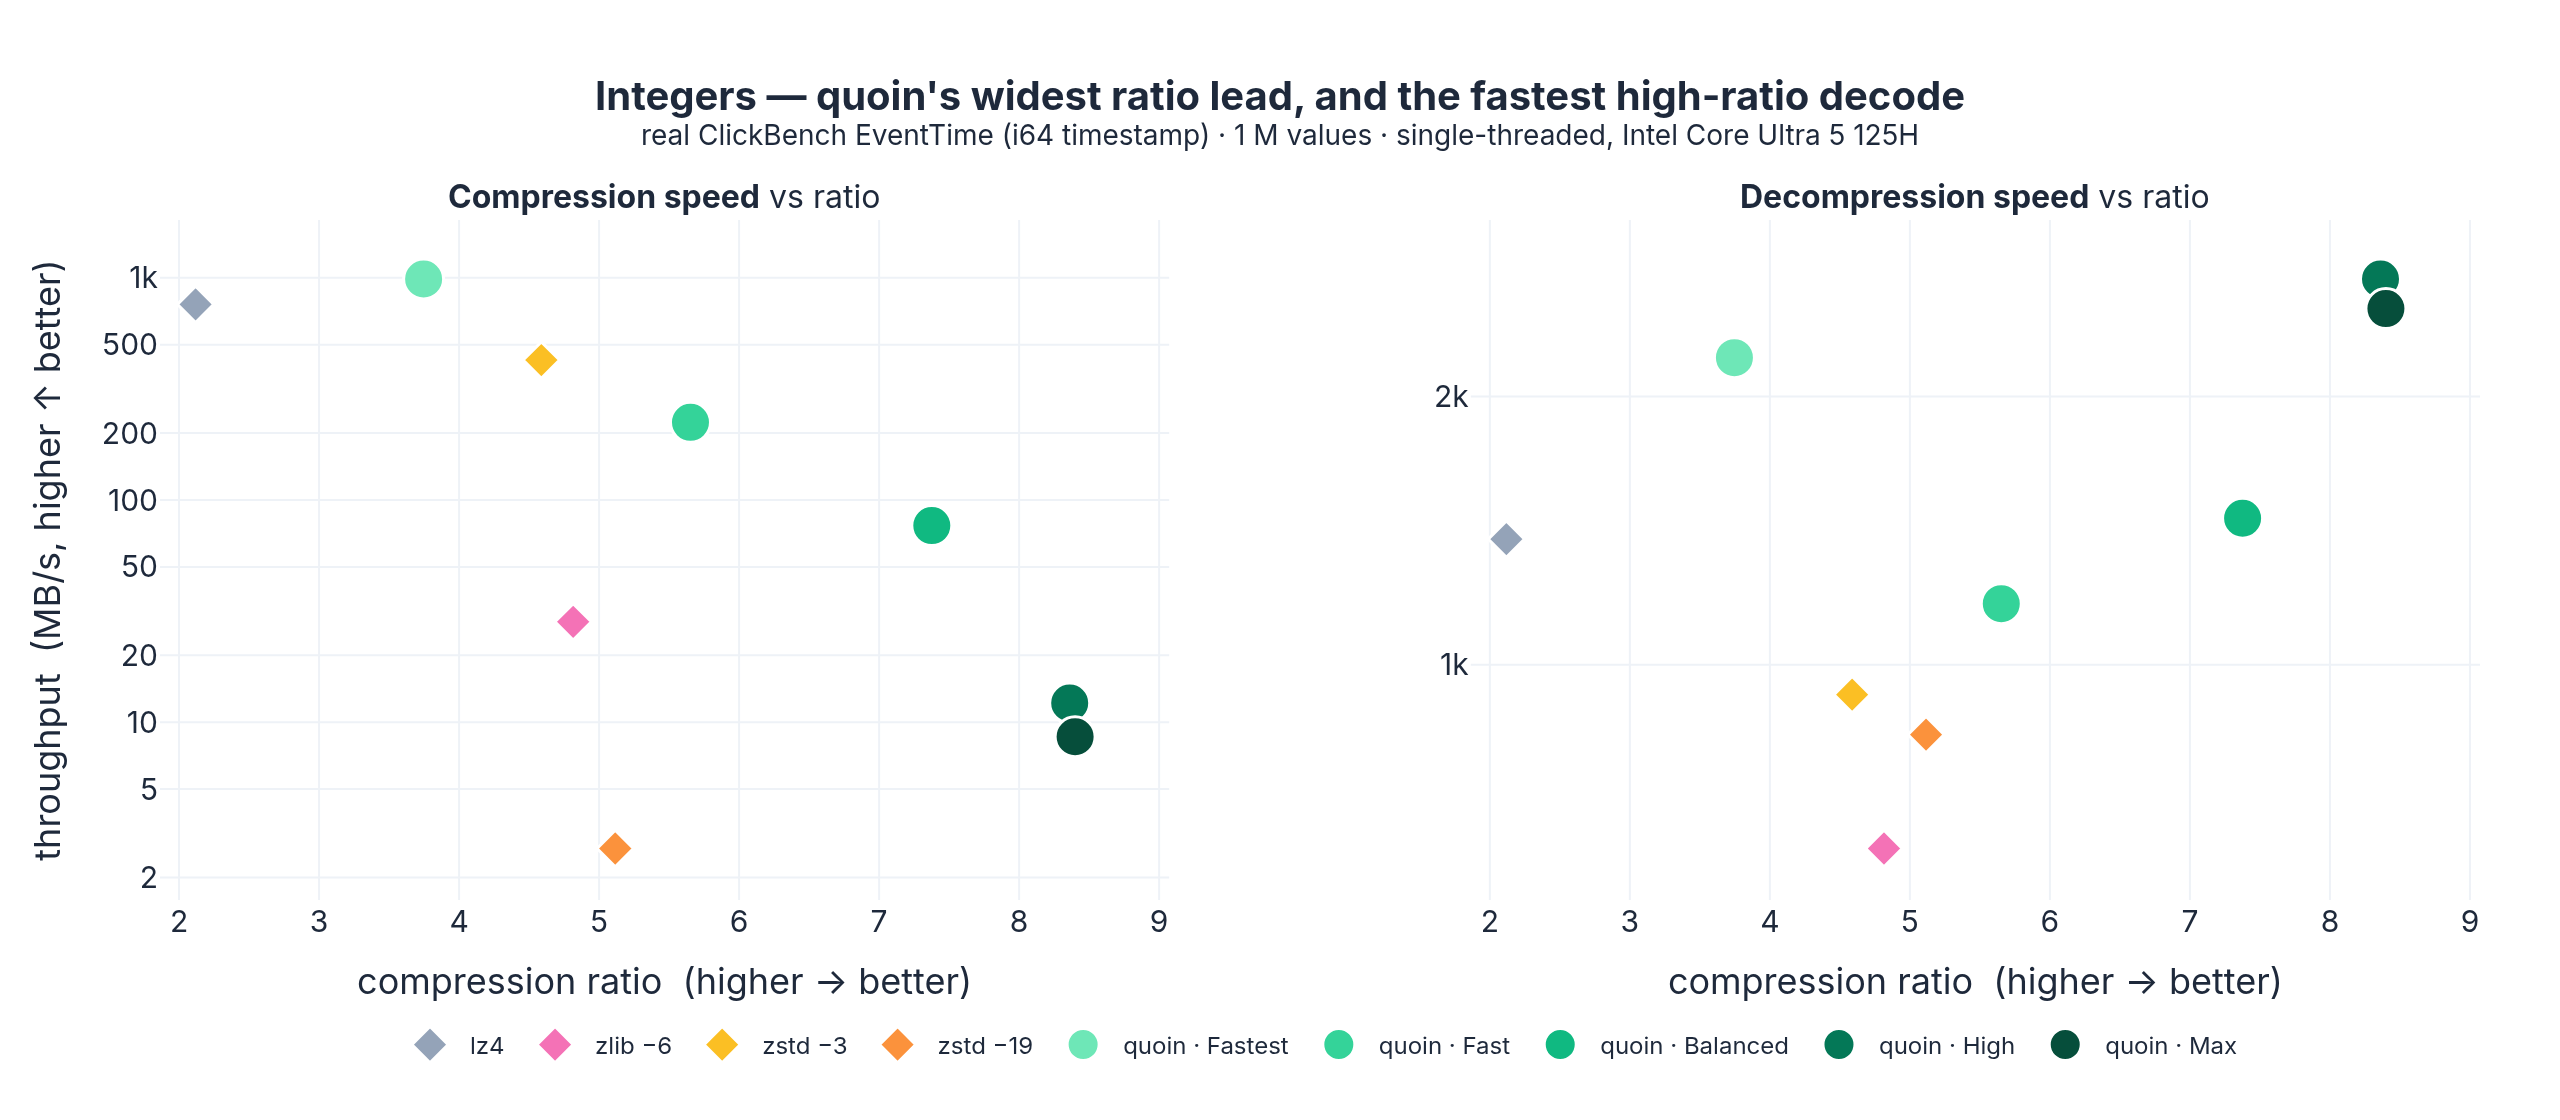
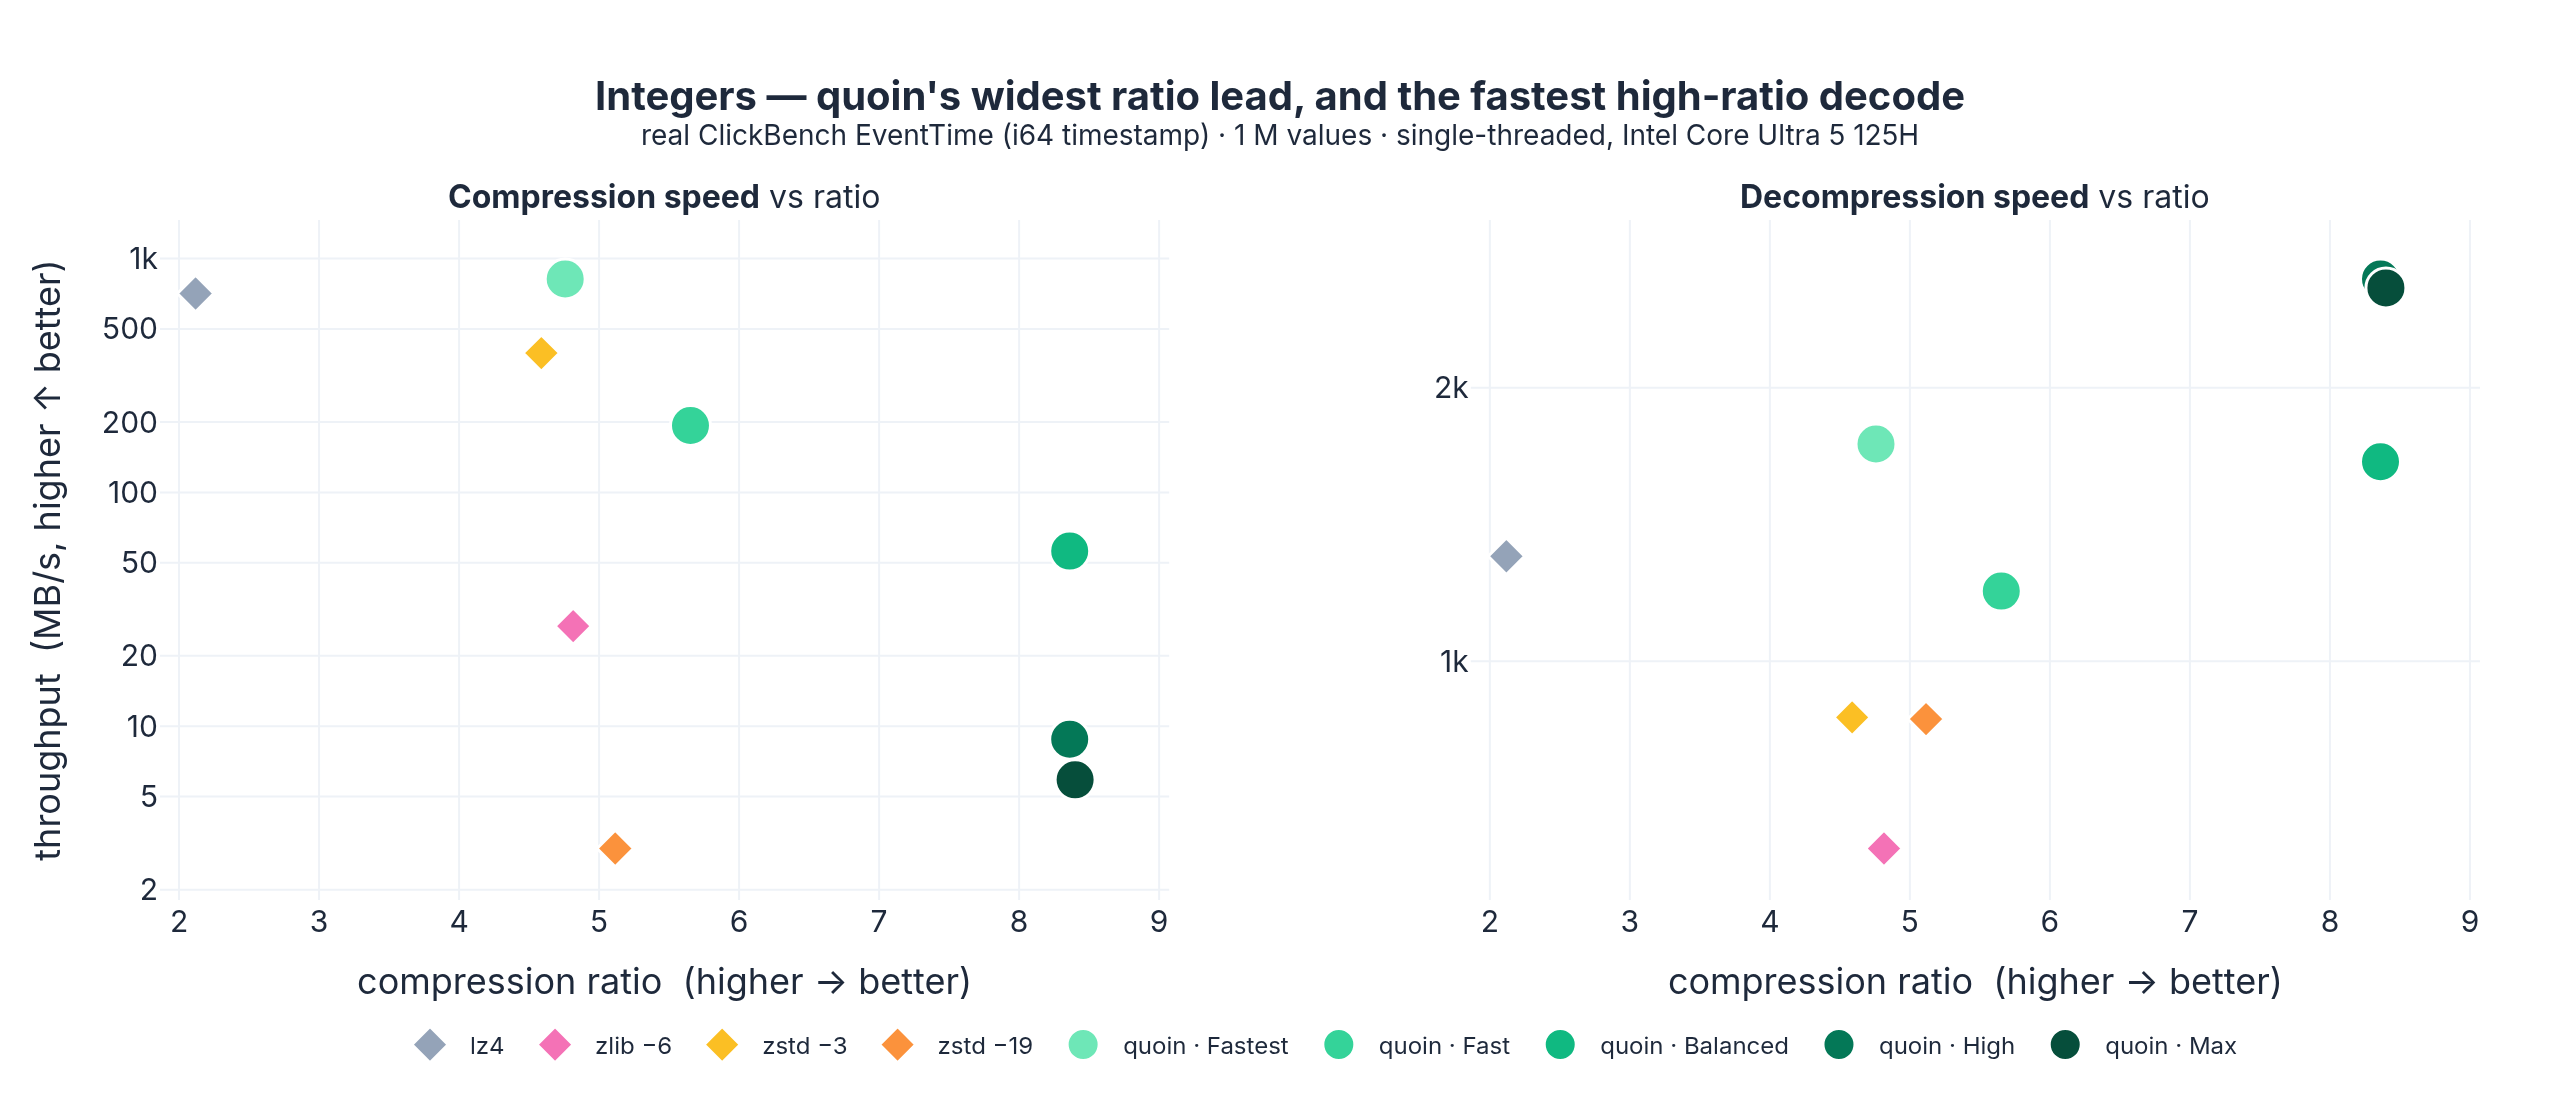
docs+bench: regenerate README benchmarks and charts
Re-ran the documented single-threaded harnesses (bench_readme, bench_typed;
one P-core, no rayon) and docs/plot_bench.py after the native 32-bit lane,
two-stage ALP with delta digits, patched bit-packing, per-plane entropy
models and the pool/decode-bias selection policy. Headlines: arade4 Balanced
2.53 -> 2.72 (Max 2.73 unchanged), city_temperature Balanced 7.01 -> 7.64,
poi_lat 2.00 -> 2.02, EventTime Balanced 7.4 -> 8.4, CounterID 780 -> 27 778
(Balanced) / 19 231 -> 30 075 (Max), city_temperature-dec Balanced
13.4 -> 17.3 at 2.7 GB/s decode. Costs stated honestly: Fastest encode
619 -> 526 MB/s (patched packer), Balanced arade4 decode 1854 -> 1144 MB/s
(bit-packed FLOAT_MULT now wins over pco), quoin-Max decode on
city_temperature-dec 876 -> 712 MB/s; every "x faster than zstd -19" claim
recomputed (encode ~19x at Balanced, ~1.8x at Max; decode ~1.7x on arade4).
Baselines drifted a few percent between runs (lz4 decode 1933 -> 1842).

Updated: README + README.ru (all four tables, prose), docs/BENCHMARKS.md
(three tables, prose), all five charts.

diff --git a/README.md b/README.md
@@ -20,7 +20,7 @@ the way a general LZ compressor does.
 
 The payoff (single-threaded, see [Benchmarks](#benchmarks)): on real f64 columns
 quoin typically lands a **better compression ratio than `zstd -19` while
-compressing ~25× faster and decompressing 2–5× faster than zstd/zlib**. Its win is
+compressing ~19× faster and decompressing 1.7–3× faster than zstd/zlib**. Its win is
 ratio + decode speed; encode is a deliberate level tradeoff (the per-block codec
 search is CPU-heavy, so fast LZ codecs out-encode it at a far worse ratio).
 
@@ -183,25 +183,25 @@ Two honest takeaways across all three types:
   decompress panel (Fastest = fastest decode, Max = highest ratio, both still quick).
 - **Encode is a deliberate tradeoff.** The per-block codec *search* costs CPU, so
   quoin's high-ratio levels encode slower than fast `lz4`/`zstd -3` (which buy that
-  speed with a far worse ratio). quoin-Balanced still encodes **~25× faster than
-  `zstd -19` at a better ratio** (and even the exhaustive Max level ~2× faster),
+  speed with a far worse ratio). quoin-Balanced still encodes **~19× faster than
+  `zstd -19` at a better ratio** (and even the exhaustive Max level ~1.8× faster),
   and the level knob (Fastest→Max) lets you trade encode speed for ratio
   explicitly.
 
 **Integers** — quoin-Max reaches 8.4× (vs `zstd -19`'s 5.1×) and decodes faster than
-every baseline; on encode it's slower than `zstd -3` but still ~3× faster than
+every baseline; on encode it's slower than `zstd -3` but still ~2× faster than
 `zstd -19` at a much higher ratio:
 
 ![integer columns: ratio vs speed](docs/images/pareto_int.png)
 
 **Decimals** — quoin-Max takes the best ratio (17.4× vs `zstd -19`'s 14.3×);
-quoin-Balanced gets 13.4× at **36 MB/s** encode versus `zstd -19`'s 14.3× at
-**3 MB/s** (~12× faster), and the quoin levels own the decode panel:
+quoin-Balanced gets 17.3× at **33 MB/s** encode versus `zstd -19`'s 14.3× at
+**3 MB/s** (~11× faster), and the quoin levels own the decode panel:
 
 ![decimal columns: ratio vs speed](docs/images/pareto_decimal.png)
 
 **Floats** — the narrowest gap (mantissa bits are high-entropy): quoin-Balanced
-beats `zstd -19`'s ratio (2.53 vs 2.20) and decodes **~2.7× faster**; here the fast
+beats `zstd -19`'s ratio (2.72 vs 2.20) and decodes **~1.7× faster**; here the fast
 `lz4`/`zstd -3` do encode faster (at 1.35–1.89× ratio), so floats are where quoin's
 encode-search cost is most visible:
 
@@ -212,15 +212,15 @@ columns truncate the same data to show ratio is size-stable):
 
 | codec | ratio | compress MB/s | decompress MB/s | ratio @100 K | ratio @1 M |
 | --- | ---: | ---: | ---: | ---: | ---: |
-| quoin (Fastest) | 1.17 | **619** | 1330 | 1.18 | 1.17 |
-| quoin (Fast) | 2.52 | 109 | 1830 | 2.47 | 2.51 |
-| **quoin (Balanced)** | **2.53** | 52 | 1854 | 2.47 | 2.51 |
-| quoin (High) | 2.73 | 8.1 | 1153 | 2.72 | 2.73 |
-| **quoin (Max)** | **2.73** | 4.6 | 1100 | 2.72 | 2.73 |
-| lz4 | 1.35 | 418 | **1933** | 1.32 | 1.34 |
-| zlib -6 | 1.95 | 41 | 375 | 1.91 | 1.94 |
-| zstd -3 | 1.89 | 212 | 770 | 1.86 | 1.88 |
-| zstd -19 | 2.20 | 2.2 | 691 | 2.17 | 2.19 |
+| quoin (Fastest) | 1.18 | **526** | 1263 | 1.18 | 1.18 |
+| quoin (Fast) | 2.65 | 87 | 1719 | 2.67 | 2.65 |
+| **quoin (Balanced)** | **2.72** | 44 | 1144 | 2.67 | 2.72 |
+| quoin (High) | 2.73 | 7.3 | 1105 | 2.72 | 2.73 |
+| **quoin (Max)** | **2.73** | 4.2 | 1041 | 2.72 | 2.73 |
+| lz4 | 1.35 | 396 | **1842** | 1.32 | 1.34 |
+| zlib -6 | 1.95 | 38 | 349 | 1.91 | 1.94 |
+| zstd -3 | 1.89 | 186 | 643 | 1.86 | 1.88 |
+| zstd -19 | 2.20 | 2.3 | 676 | 2.17 | 2.19 |
 
 ### Ratio across real columns
 
@@ -231,18 +231,18 @@ left→right by quoin's ratio below):
 
 | dataset | n | lz4 | zlib -6 | zstd -3 | zstd -19 | quoin-Bal | quoin-Max |
 | --- | ---: | ---: | ---: | ---: | ---: | ---: | ---: |
-| air_sensor | 8 664 | 1.00 | 1.13 | 1.07 | 1.19 | 1.38 | **1.38** |
-| bird_migration | 17 964 | 2.13 | 3.13 | 3.04 | 3.37 | 5.47 | **6.03** |
-| basel_wind | 123 480 | 2.29 | 3.74 | 4.38 | 5.00 | 6.46 | **7.29** |
-| poi_lat | 424 205 | 1.01 | 1.14 | 1.31 | 1.75 | 1.82 | **2.00** |
-| city_temperature | 2 000 000 | 2.48 | 4.43 | 4.05 | 6.29 | 7.01 | **8.68** |
-| food_prices | 2 000 000 | 2.55 | 4.08 | 3.87 | **4.93** | 3.89 | 4.84 |
-| neon_dew_point | 2 000 000 | 1.93 | 3.15 | 3.10 | 3.72 | 6.03 | **6.62** |
-| bitcoin_tx | 231 031 | 1.23 | 1.73 | 1.66 | 1.77 | 2.34 | **2.35** |
+| air_sensor | 8 664 | 1.00 | 1.13 | 1.07 | 1.19 | 1.36 | **1.38** |
+| bird_migration | 17 964 | 2.13 | 3.13 | 3.04 | 3.37 | 5.47 | **6.03** |
+| basel_wind | 123 480 | 2.29 | 3.74 | 4.38 | 5.00 | 6.55 | **7.32** |
+| poi_lat | 424 205 | 1.01 | 1.14 | 1.31 | 1.75 | 1.85 | **2.02** |
+| city_temperature | 2 000 000 | 2.48 | 4.43 | 4.05 | 6.29 | 7.64 | **8.68** |
+| food_prices | 2 000 000 | 2.55 | 4.08 | 3.87 | **4.93** | 3.88 | 4.84 |
+| neon_dew_point | 2 000 000 | 1.93 | 3.15 | 3.10 | 3.72 | 6.24 | **6.62** |
+| bitcoin_tx | 231 031 | 1.23 | 1.73 | 1.66 | 1.77 | 2.34 | **2.35** |
 
 quoin-Max wins the ratio on 7 of 8 real columns (often by a wide margin —
 `city_temperature` 8.68× vs `zstd -19` 6.29×). `poi_lat` — repeated geo
-coordinates, formerly quoin's one loss here — flipped to a win (2.00× vs 1.75×)
+coordinates, formerly quoin's one loss here — flipped to a win (2.02× vs 1.75×)
 with the **column-wide shared value dictionary** (`DictShared`), which stores
 the distinct values once per stream instead of once per block. `zstd -19` keeps
 a small edge on one column (`food_prices`, 4.93 vs 4.84), all while quoin
@@ -262,14 +262,14 @@ the raw little-endian value bytes.
 
 | column | type | lz4 | zstd -3 | zstd -19 | quoin-Bal | quoin-Max |
 | --- | --- | ---: | ---: | ---: | ---: | ---: |
-| EventTime (timestamp) | i64 | 2.1 | 4.6 | 5.1 | 7.4 | **8.4** |
-| UserID (clustered) | i64 | 9.8 | 12.4 | 12.6 | 10.9 | **14.6** |
+| EventTime (timestamp) | i64 | 2.1 | 4.6 | 5.1 | 8.4 | **8.4** |
+| UserID (clustered) | i64 | 9.8 | 12.4 | 12.6 | 14.5 | **14.6** |
 | WatchID (random) | i64 | 1.0 | 1.0 | 1.0 | 1.0 | 1.0 |
-| CounterID (low-card) | i32 | 254 | 9 950 | 10 444 | 780 | **19 231** |
-| RegionID | i32 | 12.1 | 20.1 | **29.5** | 26.7 | 28.7 |
+| CounterID (low-card) | i32 | 254 | 9 950 | 10 444 | 27 778 | **30 075** |
+| RegionID | i32 | 12.1 | 20.1 | **29.5** | 27.0 | 28.9 |
 | IPNetworkID | i32 | 8.4 | 12.5 | 13.8 | 13.9 | **13.9** |
-| food_prices | dec128 | 5.6 | 8.9 | 10.8 | 12.0 | **12.9** |
-| city_temperature | dec128 | 5.4 | 12.0 | 14.3 | 13.4 | **17.4** |
+| food_prices | dec128 | 5.6 | 8.9 | 10.8 | 12.3 | **13.0** |
+| city_temperature | dec128 | 5.4 | 11.9 | 14.3 | 17.3 | **17.4** |
 | bitcoin_tx | dec128 | 3.4 | 4.5 | 5.7 | 6.4 | **6.5** |
 
 quoin-Max takes the best ratio on **every decimal column** and most integer
@@ -281,19 +281,20 @@ lz4:
 
 | column | type | lz4 | quoin-Fastest | quoin-Bal | quoin-Max |
 | --- | --- | ---: | ---: | ---: | ---: |
-| EventTime | i64 | 1384 | 2211 | 1460 | **2510** |
-| UserID | i64 | 1695 | 3078 | **5054** | 2791 |
-| RegionID | i32 | **2377** | 2157 | 1330 | 1246 |
-| city_temperature | dec128 | **5423** | 3545 | 1878 | 876 |
-| bitcoin_tx | dec128 | 4710 | **5572** | 4391 | 4129 |
+| EventTime | i64 | 1305 | 1735 | 1658 | **2577** |
+| UserID | i64 | 1555 | **3100** | 2720 | 2695 |
+| RegionID | i32 | 2241 | **2310** | 1952 | 1824 |
+| city_temperature | dec128 | 2434 | **3043** | 2680 | 712 |
+| bitcoin_tx | dec128 | 4485 | **4542** | 4333 | 4235 |
 
 On the delta-friendly integers (`EventTime`, `UserID`) quoin-Max decodes **faster
-than lz4** while compressing 4–8× better. On pure bit-packed `RegionID` and the
-smoothest decimals, lz4's memcpy-style decode is faster — but at lz4's far worse
-ratio (`RegionID` 12× vs quoin's 29×), and quoin-Fastest stays in the same decode
-class. Encode is the deliberate tradeoff: the codec search is CPU-heavy, so the fast
-LZ baselines encode quicker (at far lower ratio) while quoin still out-encodes
-`zstd -19`.
+than lz4** while compressing 4–8× better, and quoin-Fastest matches or beats lz4's
+memcpy-style decode on every row (patched bit-packing). The one slow cell is
+quoin-Max on the smoothest decimals (`city_temperature`, 712 MB/s): at `Max` the
+pure-size policy picks the sequential predictors there, which is exactly what
+`Balanced` (2 680 MB/s at 17.3×) avoids. Encode is the deliberate tradeoff: the
+codec search is CPU-heavy, so the fast LZ baselines encode quicker (at far lower
+ratio) while quoin still out-encodes `zstd -19`.
 
 ## Performance: SIMD, multiversion, rayon
 

diff --git a/docs/BENCHMARKS.md b/docs/BENCHMARKS.md
@@ -24,37 +24,40 @@ taskset -c 0 cargo run --release --no-default-features --example bench_typed \
 
 | codec | ratio | compress MB/s | decompress MB/s |
 | --- | ---: | ---: | ---: |
-| quoin (Fastest) | 1.17 | **619** | 1330 |
-| quoin (Fast) | 2.52 | 109 | 1830 |
-| **quoin (Balanced)** | **2.53** | 52 | 1854 |
-| quoin (High) | 2.73 | 8.1 | 1153 |
-| **quoin (Max)** | **2.73** | 4.6 | 1100 |
-| lz4 | 1.35 | 418 | **1933** |
-| zlib -6 | 1.95 | 41 | 375 |
-| zstd -3 | 1.89 | 212 | 770 |
-| zstd -19 | 2.20 | 2.2 | 691 |
+| quoin (Fastest) | 1.18 | **526** | 1263 |
+| quoin (Fast) | 2.65 | 87 | 1719 |
+| **quoin (Balanced)** | **2.72** | 44 | 1144 |
+| quoin (High) | 2.73 | 7.3 | 1105 |
+| **quoin (Max)** | **2.73** | 4.2 | 1041 |
+| lz4 | 1.35 | 396 | **1842** |
+| zlib -6 | 1.95 | 38 | 349 |
+| zstd -3 | 1.89 | 186 | 643 |
+| zstd -19 | 2.20 | 2.3 | 676 |
 
-quoin wins **ratio and decode**: quoin-Balanced beats `zstd -19`'s ratio (2.53 vs
-2.20) and decodes **~2.7× faster**. Encode is a deliberate tradeoff — the per-block
+quoin wins **ratio and decode**: quoin-Balanced beats `zstd -19`'s ratio (2.72 vs
+2.20) and decodes **~1.7× faster**. Encode is a deliberate tradeoff — the per-block
 codec search is CPU-heavy, so the fast LZ baselines encode quicker (at far lower
-ratio) while quoin-Balanced still encodes ~25× faster than `zstd -19`; the
-Fastest→Max ladder spans 619→4.6 MB/s encode.
+ratio) while quoin-Balanced still encodes ~19× faster than `zstd -19`; the
+Fastest→Max ladder spans 526→4.2 MB/s encode. (Since the previous regeneration:
+patched bit-packing, the two-stage ALP search with delta digits, and the
+pool/decode-bias selection policy lifted Balanced from 2.53 to 2.72 at the cost
+of a slower Balanced decode — it now picks bit-packed FLOAT_MULT over pco here.)
 
 ### Floats — ratio across the ALP corpus (quoin-Max vs baselines)
 
 | column | lz4 | zlib -6 | zstd -3 | zstd -19 | quoin-Bal | quoin-Max |
 | --- | ---: | ---: | ---: | ---: | ---: | ---: |
-| air_sensor | 1.00 | 1.13 | 1.07 | 1.19 | 1.38 | **1.38** |
-| bird_migration | 2.13 | 3.13 | 3.04 | 3.37 | 5.47 | **6.03** |
-| basel_wind | 2.29 | 3.74 | 4.38 | 5.00 | 6.46 | **7.29** |
-| poi_lat | 1.01 | 1.14 | 1.31 | 1.75 | 1.82 | **2.00** |
-| city_temperature | 2.48 | 4.43 | 4.05 | 6.29 | 7.01 | **8.68** |
-| food_prices | 2.55 | 4.08 | 3.87 | **4.93** | 3.89 | 4.84 |
-| neon_dew_point | 1.93 | 3.15 | 3.10 | 3.72 | 6.03 | **6.62** |
-| bitcoin_tx | 1.23 | 1.73 | 1.66 | 1.77 | 2.34 | **2.35** |
+| air_sensor | 8 664 | 1.00 | 1.13 | 1.07 | 1.19 | 1.36 | **1.38** |
+| bird_migration | 17 964 | 2.13 | 3.13 | 3.04 | 3.37 | 5.47 | **6.03** |
+| basel_wind | 123 480 | 2.29 | 3.74 | 4.38 | 5.00 | 6.55 | **7.32** |
+| poi_lat | 424 205 | 1.01 | 1.14 | 1.31 | 1.75 | 1.85 | **2.02** |
+| city_temperature | 2 000 000 | 2.48 | 4.43 | 4.05 | 6.29 | 7.64 | **8.68** |
+| food_prices | 2 000 000 | 2.55 | 4.08 | 3.87 | **4.93** | 3.88 | 4.84 |
+| neon_dew_point | 2 000 000 | 1.93 | 3.15 | 3.10 | 3.72 | 6.24 | **6.62** |
+| bitcoin_tx | 231 031 | 1.23 | 1.73 | 1.66 | 1.77 | 2.34 | **2.35** |
 
 `poi_lat` — repeated geo coordinates, formerly quoin's one loss here — flipped
-to a win (2.00× vs 1.75×) via the **column-wide shared value dictionary**
+to a win (2.02× vs 1.75×) via the **column-wide shared value dictionary**
 (`DICT_SHARED`), which stores the distinct values once per stream instead of
 once per block. `food_prices` remains `zstd -19`'s one edge (4.93 vs 4.84).
 
@@ -62,22 +65,24 @@ once per block. `food_prices` remains `zstd -19`'s one edge (4.93 vs 4.84).
 
 | column | type | lz4 | zstd -3 | zstd -19 | quoin-Bal | quoin-Max |
 | --- | --- | ---: | ---: | ---: | ---: | ---: |
-| EventTime (timestamp) | i64 | 2.1 | 4.6 | 5.1 | 7.4 | **8.4** |
-| UserID (clustered) | i64 | 9.8 | 12.4 | 12.6 | 10.9 | **14.6** |
+| EventTime (timestamp) | i64 | 2.1 | 4.6 | 5.1 | 8.4 | **8.4** |
+| UserID (clustered) | i64 | 9.8 | 12.4 | 12.6 | 14.5 | **14.6** |
 | WatchID (random) | i64 | 1.0 | 1.0 | 1.0 | 1.0 | 1.0 |
-| CounterID (low-card) | i32 | 254 | 9 950 | 10 444 | 780 | **19 231** |
-| RegionID | i32 | 12.1 | 20.1 | **29.5** | 26.7 | 28.7 |
+| CounterID (low-card) | i32 | 254 | 9 950 | 10 444 | 27 778 | **30 075** |
+| RegionID | i32 | 12.1 | 20.1 | **29.5** | 27.0 | 28.9 |
 | IPNetworkID | i32 | 8.4 | 12.5 | 13.8 | 13.9 | **13.9** |
-| food_prices | dec128 | 5.6 | 8.9 | 10.8 | 12.0 | **12.9** |
-| city_temperature | dec128 | 5.4 | 12.0 | 14.3 | 13.4 | **17.4** |
+| food_prices | dec128 | 5.6 | 8.9 | 10.8 | 12.3 | **13.0** |
+| city_temperature | dec128 | 5.4 | 11.9 | 14.3 | 17.3 | **17.4** |
 | bitcoin_tx | dec128 | 3.4 | 4.5 | 5.7 | 6.4 | **6.5** |
 
 Type-awareness pulls furthest ahead on integers/decimals (f64 is the hardest case).
 quoin-Max takes the best ratio on every decimal column and most integer columns;
 it ties at ~1.0× on random IDs (`WatchID`), and `zstd -19` edges `RegionID`.
 Single-threaded, quoin's win is ratio + decode: on `city_temperature` decimals
-quoin-Max reaches 17.4× (vs `zstd -19`'s 14.3×) decoding at ~880 MB/s, quoin-Balanced
-13.4× decoding at ~1.9 GB/s. Encode is the tradeoff (the codec search is CPU-heavy):
+quoin-Max reaches 17.4× (vs `zstd -19`'s 14.3×) decoding at ~710 MB/s, quoin-Balanced
+17.3× decoding at ~2.7 GB/s (patched bit-packing closed the Balanced/Max gap on the
+decimal and low-cardinality integer columns: `CounterID` 780× → 27 778× at
+Balanced). Encode is the tradeoff (the codec search is CPU-heavy):
 the fast LZ baselines encode quicker at far lower ratio, while quoin still encodes
 well ahead of `zstd -19`. The plots are in `docs/images/`
 (`pareto_int/decimal/float.png`, `ratio_breadth.png`, `typed_ratio.png`),
